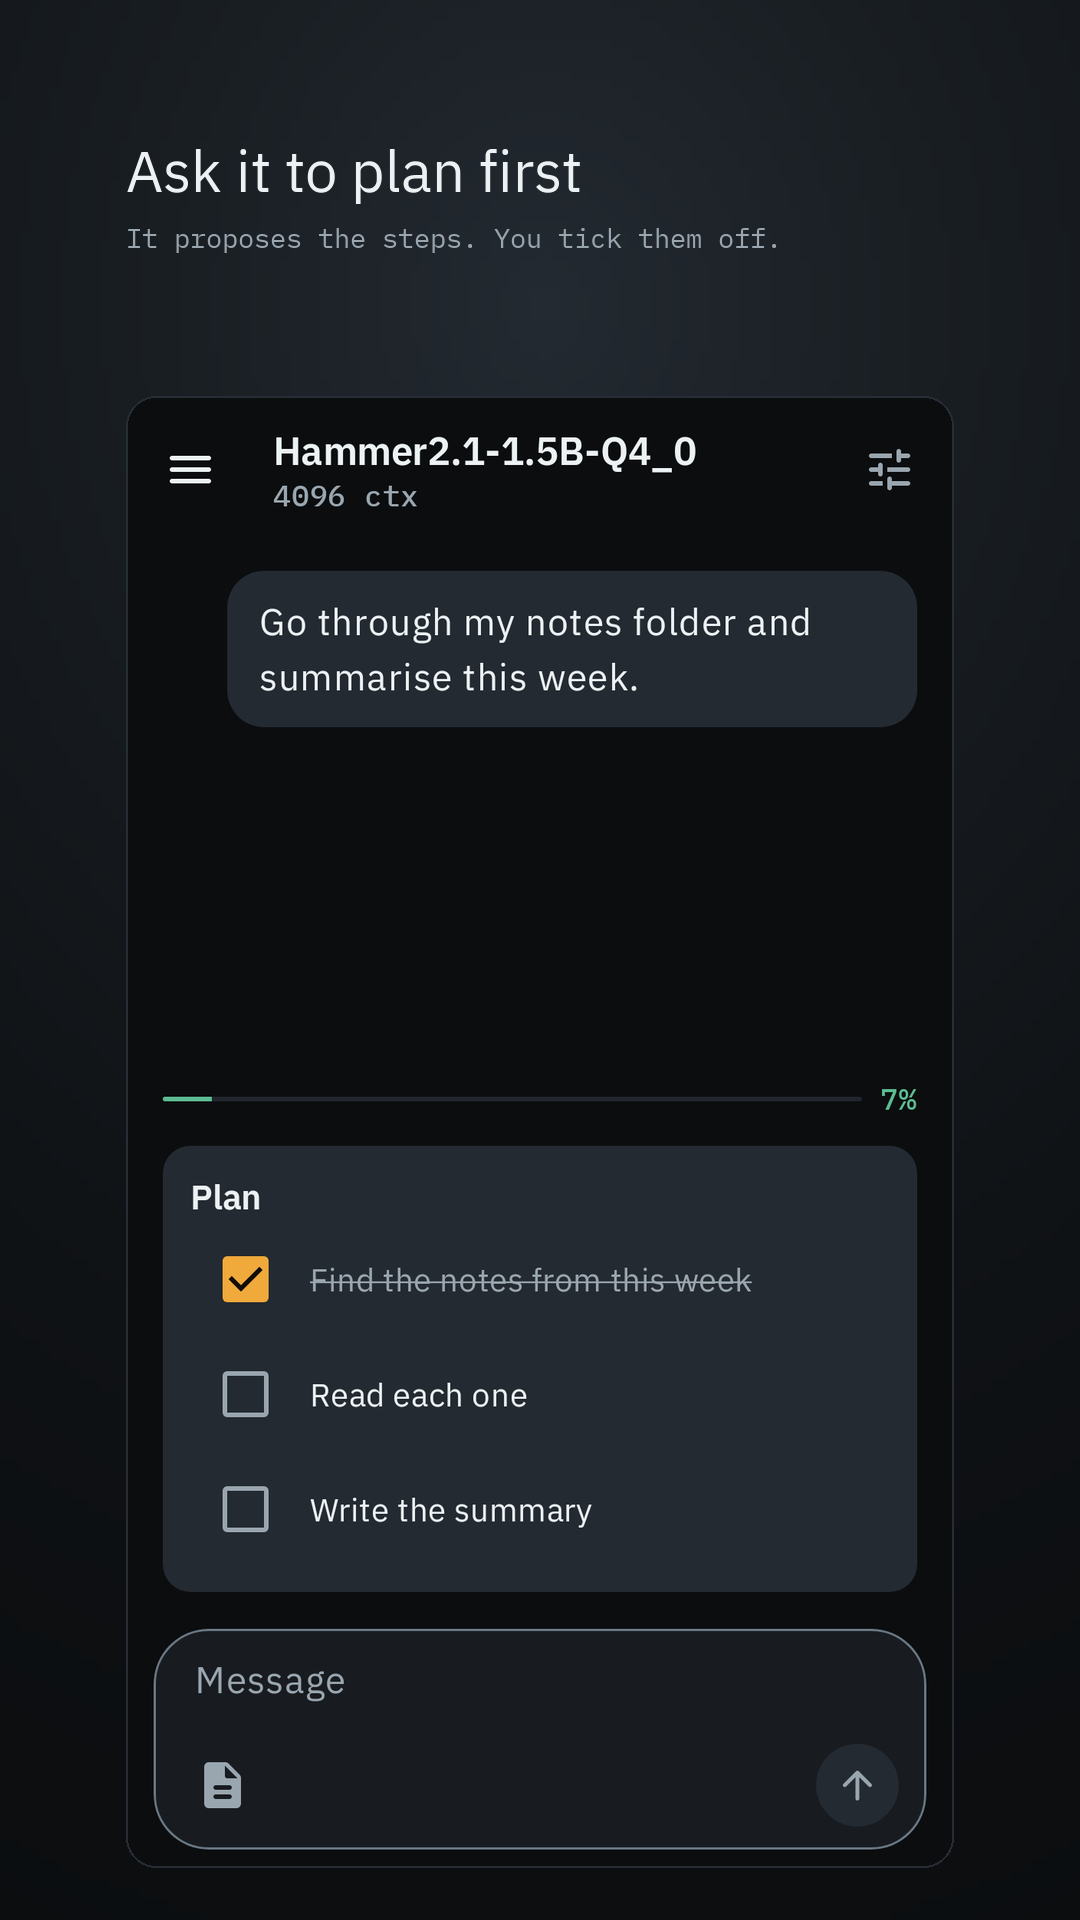
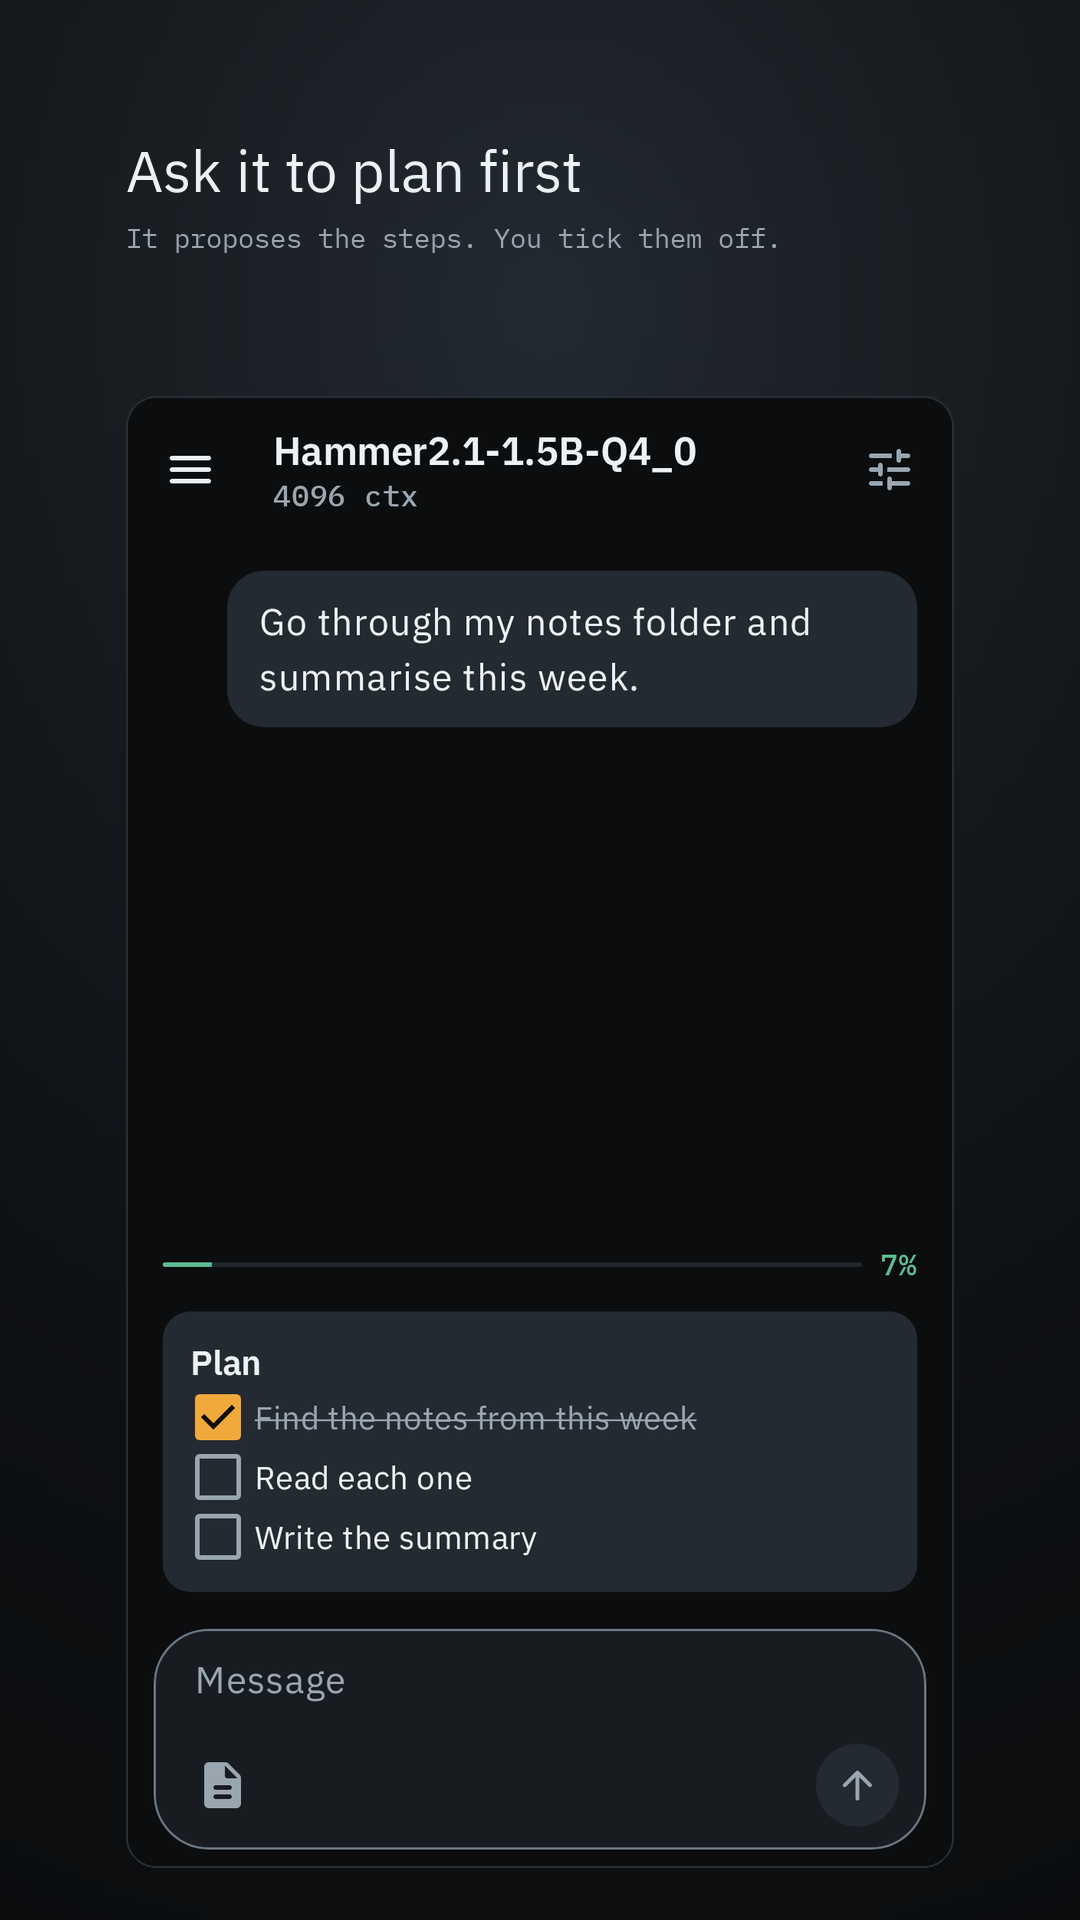
Cap the conversation's width, and shoot the tablets
Play wants screenshots for the 7 and 10 inch slots. Rendering one first was
the right order, because what came back was not a screenshot problem.

At a ten inch tablet's 900dp the chat screen was a phone stretched sideways.
The reply ran the full width at around a hundred and sixty characters a line,
about twice what anyone reads comfortably; the composer stretched to match;
and a band of empty graphite ran down the middle where the conversation
should have been. Uploading that would have advertised the experience rather
than the app, and the honest alternative to uploading it was fixing it.

ChatScreen now caps its content at 640dp and centres it. On a phone this
changes nothing, because the window is narrower than the cap, which is why
the phone screenshots are unchanged. On a tablet it is the whole difference,
and the same applies to a foldable, which is a phone right up until it is
not.

The cap goes before the fill, and the first attempt had it after. fillMaxSize
fixes the width at the window's before widthIn is reached, and a maximum
below a minimum resolves in the minimum's favour, so the constraint silently
did nothing and the re-render came back identical to the pixel. Worth the
comment it now carries: a layout modifier that quietly does nothing looks
exactly like one that works.

Eight new screenshots, four per slot, both 9:16 and inside the pixel bounds
each slot allows, framed by the same script with its proportions scaled.
[…]

Changed region(s): [[0.1528, 0.5625, 0.8556, 0.8125]]

diff --git a/app/src/main/kotlin/io/github/alpharomercoma/openweights/ui/chat/ChatScreen.kt b/app/src/main/kotlin/io/github/alpharomercoma/openweights/ui/chat/ChatScreen.kt
@@ -293,88 +293,103 @@ private fun ChatContent(
             }
         },
     ) { innerPadding ->
-        Column(
+        // Held to a readable width and centred rather than filled to the window's edges.
+        //
+        // On a phone this changes nothing, because the window is narrower than the cap. It
+        // is for the sizes nobody was looking at: rendered at a ten inch tablet's 900dp the
+        // reply ran the full width at about a hundred and sixty characters a line, twice
+        // what anyone reads comfortably, with the composer stretched to match and a band of
+        // empty graphite down the middle where the conversation should have been. The same
+        // applies to a foldable, which is a phone right up until it is not.
+        Box(
             modifier = Modifier
                 .fillMaxSize()
                 .padding(innerPadding)
                 .imePadding(),
+            contentAlignment = Alignment.TopCenter,
         ) {
-            Box(modifier = Modifier.weight(1f)) {
-                if (state.transcript.isEmpty()) {
-                    EmptyState(
-                        isLoadingModel = state.isLoadingModel,
-                        hasModel = state.modelName != null,
-                    )
-                } else {
-                    Transcript(
-                        state = state,
-                        listState = listState,
-                        isSpeaking = isSpeaking,
-                        clipboard = clipboard,
-                        onActionsForId = onActionsForId,
-                        onToggleReadAloud = onToggleReadAloud,
-                        onRegenerate = onRegenerate,
+            // The cap before the fill, not after. Written the other way round fillMaxSize
+            // fixes the width at the window's before widthIn is reached, and a maximum below
+            // a minimum is resolved in the minimum's favour, so the cap silently did nothing
+            // and the render came back byte for byte identical.
+            Column(modifier = Modifier.widthIn(max = READABLE_WIDTH).fillMaxSize()) {
+                Box(modifier = Modifier.weight(1f)) {
+                    if (state.transcript.isEmpty()) {
+                        EmptyState(
+                            isLoadingModel = state.isLoadingModel,
+                            hasModel = state.modelName != null,
+                        )
+                    } else {
+                        Transcript(
+                            state = state,
+                            listState = listState,
+                            isSpeaking = isSpeaking,
+                            clipboard = clipboard,
+                            onActionsForId = onActionsForId,
+                            onToggleReadAloud = onToggleReadAloud,
+                            onRegenerate = onRegenerate,
+                        )
+                    }
+
+                    JumpToLatestButton(
+                        // Detached is not enough on its own: a transcript that fits the screen
+                        // is detached the moment you touch it, and offering to scroll to a
+                        // bottom already in view is an offer that reads as a bug. Only once
+                        // there is a screenful or so out of sight below.
+                        visible = followTail.isDetached && listState.hasHiddenTail(),
+                        onClick = followTail::jumpToLatest,
+                        modifier = Modifier
+                            .align(Alignment.BottomCenter)
+                            .padding(bottom = 12.dp),
                     )
                 }
 
-                JumpToLatestButton(
-                    // Detached is not enough on its own: a transcript that fits the screen
-                    // is detached the moment you touch it, and offering to scroll to a
-                    // bottom already in view is an offer that reads as a bug. Only once
-                    // there is a screenful or so out of sight below.
-                    visible = followTail.isDetached && listState.hasHiddenTail(),
-                    onClick = followTail::jumpToLatest,
-                    modifier = Modifier
-                        .align(Alignment.BottomCenter)
-                        .padding(bottom = 12.dp),
+                StatusStrip(state = state, dictationError = dictation.error)
+                plan?.let { PlanCard(plan = it, onTick = onTickStep) }
+                question?.let { QuestionCard(question = it, onAnswer = onAnswerQuestion) }
+                state.pendingApproval?.let { call ->
+                    ToolApproval(call = call, onAnswer = onApproval)
+                }
+
+                val dispatch: (SlashCommand) -> Unit = {
+                    it.run(onNewChat, onCompact, onRegenerate, onMode)
+                }
+
+                Composer(
+                    conversationKey = state.activeConversationId,
+                    enabled = state.canSend,
+                    isGenerating = state.isGenerating,
+                    staged = state.staged,
+                    document = state.stagedDocument,
+                    onRemoveDocument = onRemoveDocument,
+                    canAttach = state.mediaSupport.any,
+                    isAttaching = state.isAttaching,
+                    canDictate = canDictate,
+                    isListening = dictation.isListening,
+                    heard = dictation.partial,
+                    onAttach = { showAttachments = true },
+                    leading = {
+                        AttachDocumentButton(enabled = state.canSend, onPicked = onAttachDocument)
+                    },
+                    onRemoveStaged = onRemoveStaged,
+                    onDictate = onDictate,
+                    // A command that was typed out and sent runs, rather than going to the model
+                    // as text for it to answer. The palette is how these are found; it was also
+                    // the only way to run one, which anybody who already knew the word found out
+                    // by watching the model reply to "/plan".
+                    onSend = { typed ->
+                        val command = SlashCommand.typed(typed)
+                        if (command != null) {
+                            dispatch(command)
+                            true
+                        } else {
+                            onSend(typed)
+                        }
+                    },
+                    onStop = onStop,
+                    onCommand = dispatch,
                 )
             }
-
-            StatusStrip(state = state, dictationError = dictation.error)
-            plan?.let { PlanCard(plan = it, onTick = onTickStep) }
-            question?.let { QuestionCard(question = it, onAnswer = onAnswerQuestion) }
-            state.pendingApproval?.let { call ->
-                ToolApproval(call = call, onAnswer = onApproval)
-            }
-
-            val dispatch: (SlashCommand) -> Unit = {
-                it.run(onNewChat, onCompact, onRegenerate, onMode)
-            }
-
-            Composer(
-                conversationKey = state.activeConversationId,
-                enabled = state.canSend,
-                isGenerating = state.isGenerating,
-                staged = state.staged,
-                document = state.stagedDocument,
-                onRemoveDocument = onRemoveDocument,
-                canAttach = state.mediaSupport.any,
-                isAttaching = state.isAttaching,
-                canDictate = canDictate,
-                isListening = dictation.isListening,
-                heard = dictation.partial,
-                onAttach = { showAttachments = true },
-                leading = {
-                    AttachDocumentButton(enabled = state.canSend, onPicked = onAttachDocument)
-                },
-                onRemoveStaged = onRemoveStaged,
-                onDictate = onDictate,
-                // A command that was typed out and sent runs, rather than going to the model
-                // as text for it to answer. The palette is how these are found; it was also
-                // the only way to run one, which anybody who already knew the word found out
-                // by watching the model reply to "/plan".
-                onSend = { typed ->
-                    val command = SlashCommand.typed(typed)
-                    if (command != null) {
-                        dispatch(command)
-                        true
-                    } else {
-                        onSend(typed)
-                    }
-                },
-                onStop = onStop,
-                onCommand = dispatch,
-            )
         }
     }
 
@@ -676,6 +691,15 @@ private fun AssistantTurn(
         }
     }
 }
+
+/**
+ * The widest the conversation is allowed to get, however wide the window is.
+ *
+ * Prose stops being comfortable somewhere past seventy or eighty characters a line, and a
+ * ten inch tablet at this text size is well over twice that. Material caps a reading pane
+ * for the same reason.
+ */
+private val READABLE_WIDTH = 640.dp
 
 private const val MILLIS_PER_SECOND = 1000.0
 

diff --git a/app/src/test/kotlin/io/github/alpharomercoma/openweights/ui/PlayScreenshots.kt b/app/src/test/kotlin/io/github/alpharomercoma/openweights/ui/PlayScreenshots.kt
@@ -89,6 +89,46 @@ class PlayScreenshots {
         ListingShots.tools()
     }
 
+    // The two tablet slots. Both are 9:16 in pixels, which is what Play asks for, and both
+    // are above the width the conversation is now capped at, so what they show is the real
+    // large-screen layout rather than a phone stretched sideways. Four each: Play wants at
+    // least four at 1080px to consider a listing for promotion.
+    @Test
+    @Config(qualifiers = SEVEN_INCH)
+    fun sevenInchChat() = shoot("7/01-chat", until = "attention layers") { ChatShots.midReply() }
+
+    @Test
+    @Config(qualifiers = SEVEN_INCH)
+    fun sevenInchTools() = shoot("7/02-tools", until = "thunderstorms") { ChatShots.toolRound() }
+
+    @Test
+    @Config(qualifiers = SEVEN_INCH)
+    fun sevenInchPlan() = shoot("7/03-plan", until = "Write the summary") { ChatShots.planned() }
+
+    @Test
+    @Config(qualifiers = SEVEN_INCH)
+    fun sevenInchDiscover() = shoot("7/04-discover", until = "Hammer2.1") {
+        ListingShots.discover()
+    }
+
+    @Test
+    @Config(qualifiers = TEN_INCH)
+    fun tenInchChat() = shoot("10/01-chat", until = "attention layers") { ChatShots.midReply() }
+
+    @Test
+    @Config(qualifiers = TEN_INCH)
+    fun tenInchTools() = shoot("10/02-tools", until = "thunderstorms") { ChatShots.toolRound() }
+
+    @Test
+    @Config(qualifiers = TEN_INCH)
+    fun tenInchPlan() = shoot("10/03-plan", until = "Write the summary") { ChatShots.planned() }
+
+    @Test
+    @Config(qualifiers = TEN_INCH)
+    fun tenInchDiscover() = shoot("10/04-discover", until = "Hammer2.1") {
+        ListingShots.discover()
+    }
+
     /**
      * One screen, drawn straight off its own view.
      *
@@ -99,7 +139,7 @@ class PlayScreenshots {
      */
     private fun shoot(name: String, until: String, content: @Composable () -> Unit) {
         val into = System.getenv(OUTPUT) ?: return
-        val directory = File(into).apply { mkdirs() }
+        val directory = File(into)
 
         compose.setContent { OpenWeightsTheme(dynamicColor = false) { content() } }
         // Markdown is parsed off the composition and swapped in when it finishes, so a
@@ -113,7 +153,7 @@ class PlayScreenshots {
         val bitmap = Bitmap.createBitmap(view.width, view.height, Bitmap.Config.ARGB_8888)
         view.draw(Canvas(bitmap))
 
-        val file = File(directory, "$name.png")
+        val file = File(directory, "$name.png").apply { parentFile?.mkdirs() }
         file.outputStream().use { bitmap.compress(Bitmap.CompressFormat.PNG, 100, it) }
         check(file.length() > 0) { "wrote nothing to ${file.name}" }
         println("screenshot ${file.name}: ${bitmap.width}x${bitmap.height} ${file.length()} bytes")
@@ -124,5 +164,11 @@ class PlayScreenshots {
 
         /** Long enough for a markdown parse on a cold host JVM, short enough to fail fast. */
         const val WAIT_MS = 10_000L
+
+        /** 600 x 1067 dp at xhdpi is 1200 x 2134 px: 9:16, inside the 320..3840 Play allows. */
+        const val SEVEN_INCH = "w600dp-h1067dp-night-xhdpi"
+
+        /** 900 x 1600 dp at xhdpi is 1800 x 3200 px: 9:16, inside the 1080..7680 Play allows. */
+        const val TEN_INCH = "w900dp-h1600dp-night-xhdpi"
     }
 }

diff --git a/play/graphics/frame.py b/play/graphics/frame.py
@@ -12,7 +12,7 @@ from pathlib import Path
 
 from PIL import Image, ImageColor, ImageDraw, ImageFont
 
-W, H = 1080, 1920
+W, H = 1080, 1920          # the phone canvas; tablets scale from it
 CANVAS = "#0B0D0F"
 LIFT = "#232A31"          # the radial the icon and feature graphic also sit on
 TEXT = "#ECF1F4"
@@ -80,17 +80,18 @@ def frame(source: Path, out: Path, headline: str, sub: str) -> None:
     canvas = background()
     draw = ImageDraw.Draw(canvas)
 
-    head_font = ImageFont.truetype(SANS, 58)
-    sub_font = ImageFont.truetype(MONO, 27)
+    scale = W / 1080
+    head_font = ImageFont.truetype(SANS, round(58 * scale))
+    sub_font = ImageFont.truetype(MONO, round(27 * scale))
 
-    y = 132
-    for line in wrap(draw, headline, head_font, W - 2 * 126):
-        draw.text((126, y), line, font=head_font, fill=TEXT)
-        y += 74
-    y += 14
-    for line in wrap(draw, sub, sub_font, W - 2 * 126):
-        draw.text((126, y), line, font=sub_font, fill=MUTED)
-        y += 40
+    y = round(132 * scale)
+    for line in wrap(draw, headline, head_font, W - round(2 * 126 * scale)):
+        draw.text((round(126 * scale), y), line, font=head_font, fill=TEXT)
+        y += round(74 * scale)
+    y += round(14 * scale)
+    for line in wrap(draw, sub, sub_font, W - round(2 * 126 * scale)):
+        draw.text((round(126 * scale), y), line, font=sub_font, fill=MUTED)
+        y += round(40 * scale)
 
     shot = Image.open(source).convert("RGB")
     height = round(shot.height * SHOT_W / shot.width)
@@ -111,10 +112,24 @@ def frame(source: Path, out: Path, headline: str, sub: str) -> None:
     print(f"{out.name}: {canvas.size[0]}x{canvas.size[1]} {out.stat().st_size} bytes")
 
 
+def scaled(width: int, height: int) -> None:
+    """Retarget the canvas, so one set of proportions serves every slot Play asks for."""
+    global W, H, SHOT_W, SHOT_TOP, RADIUS
+    factor = width / 1080
+    W, H = width, height
+    SHOT_W = round(828 * factor)
+    SHOT_TOP = round(396 * factor)
+    RADIUS = round(30 * factor)
+
+
 if __name__ == "__main__":
     import sys
 
     src, dst = Path(sys.argv[1]), Path(sys.argv[2])
+    if len(sys.argv) > 4:
+        scaled(int(sys.argv[3]), int(sys.argv[4]))
     dst.mkdir(parents=True, exist_ok=True)
     for name, headline, sub in CAPTIONS:
-        frame(src / f"{name}.png", dst / f"{name}.png", headline, sub)
+        source = src / f"{name}.png"
+        if source.exists():
+            frame(source, dst / f"{name}.png", headline, sub)

diff --git a/play/graphics/README.md b/play/graphics/README.md
@@ -7,6 +7,8 @@ Everything the Console asks to be uploaded, and how to make it again.
 | `icon-512.png` | App icon | 512 x 512, 32-bit PNG with alpha, under 1024 KB | The launcher mark at listing size |
 | `feature-graphic-1024x500.png` | Feature graphic | 1024 x 500, 24-bit PNG, no alpha | Header art. No screenshot content: Play crops it hard on some surfaces |
 | `screenshots-phone/*.png` | Phone screenshots | 1080 x 1920, 24-bit PNG, no alpha | Five captioned screens |
+| `screenshots-tablet-7/*.png` | 7-inch tablet | 1200 x 2133, sides within 320..3840 | Four, rendered at 600dp |
+| `screenshots-tablet-10/*.png` | 10-inch tablet | 1800 x 3200, sides within 1080..7680 | Four, rendered at 900dp |
 
 Play takes 2 screenshots at minimum and 8 at most, and promotes listings with 4 or more at
 1080p. There are five. It also refuses any screenshot whose long side is more than twice its
@@ -50,8 +52,20 @@ cost a command, not an afternoon of re-staging conversations on a phone.
 ## What is deliberately not here
 
 - **A promo video.** Play takes one YouTube URL, so there is nothing to upload from a repo.
-- **Tablet screenshots.** The app is `portrait` only and is not submitted for large screens.
-  Adding them means adding a tablet layout first, not adding a picture.
+- **Chromebook and XR screenshots.** Neither form factor is targeted.
+
+## The tablet shots came with a fix attached
+
+This section used to say tablet screenshots would mean adding a tablet layout first rather
+than adding a picture, and that turned out to be exactly right. Rendered at a ten inch
+tablet's 900dp, the chat screen was a phone stretched sideways: the reply ran the full width
+at around a hundred and sixty characters a line, roughly twice what anyone reads
+comfortably, with the composer stretched to match and a band of empty graphite down the
+middle. Uploading that would have advertised the experience rather than the app.
+
+So `ChatScreen` caps its content at `READABLE_WIDTH` and centres it, which changes nothing
+on a phone — the window is narrower than the cap — and is the whole difference on anything
+larger, foldables included. The screenshots are of the fixed layout.
 - **Any number the app cannot produce.** 13.8 tok/s is Q4_0 measured on the test phone and
   4096 ctx is the shipped default. A listing that promises a rate the hardware misses is a
   one-star review with a receipt.
